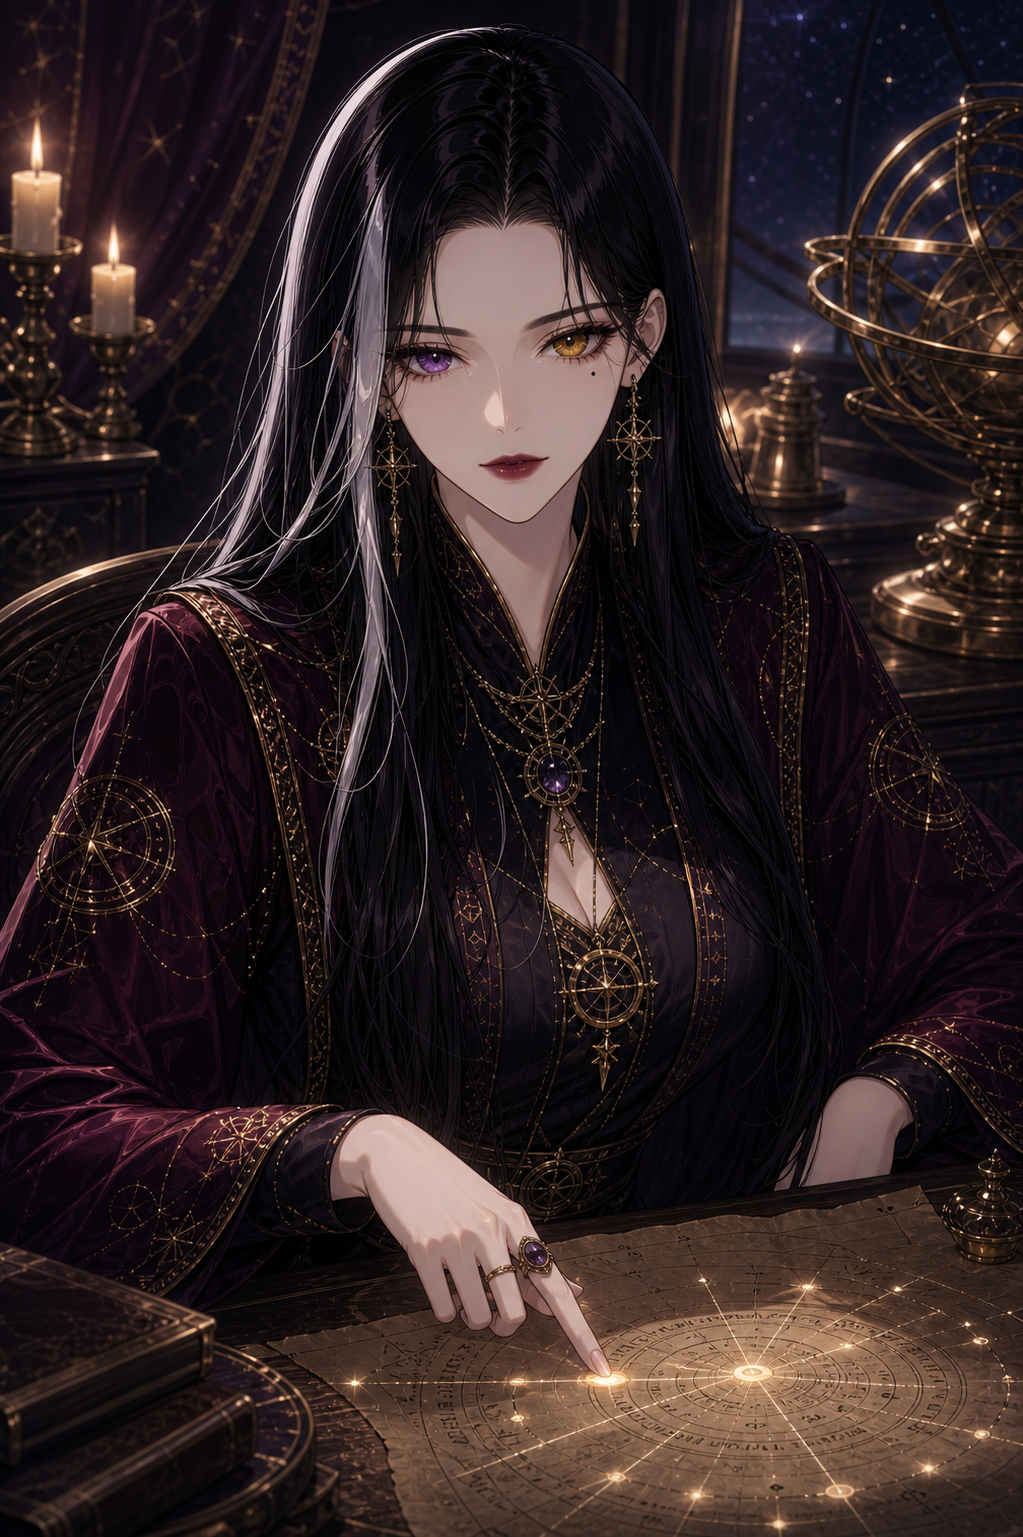
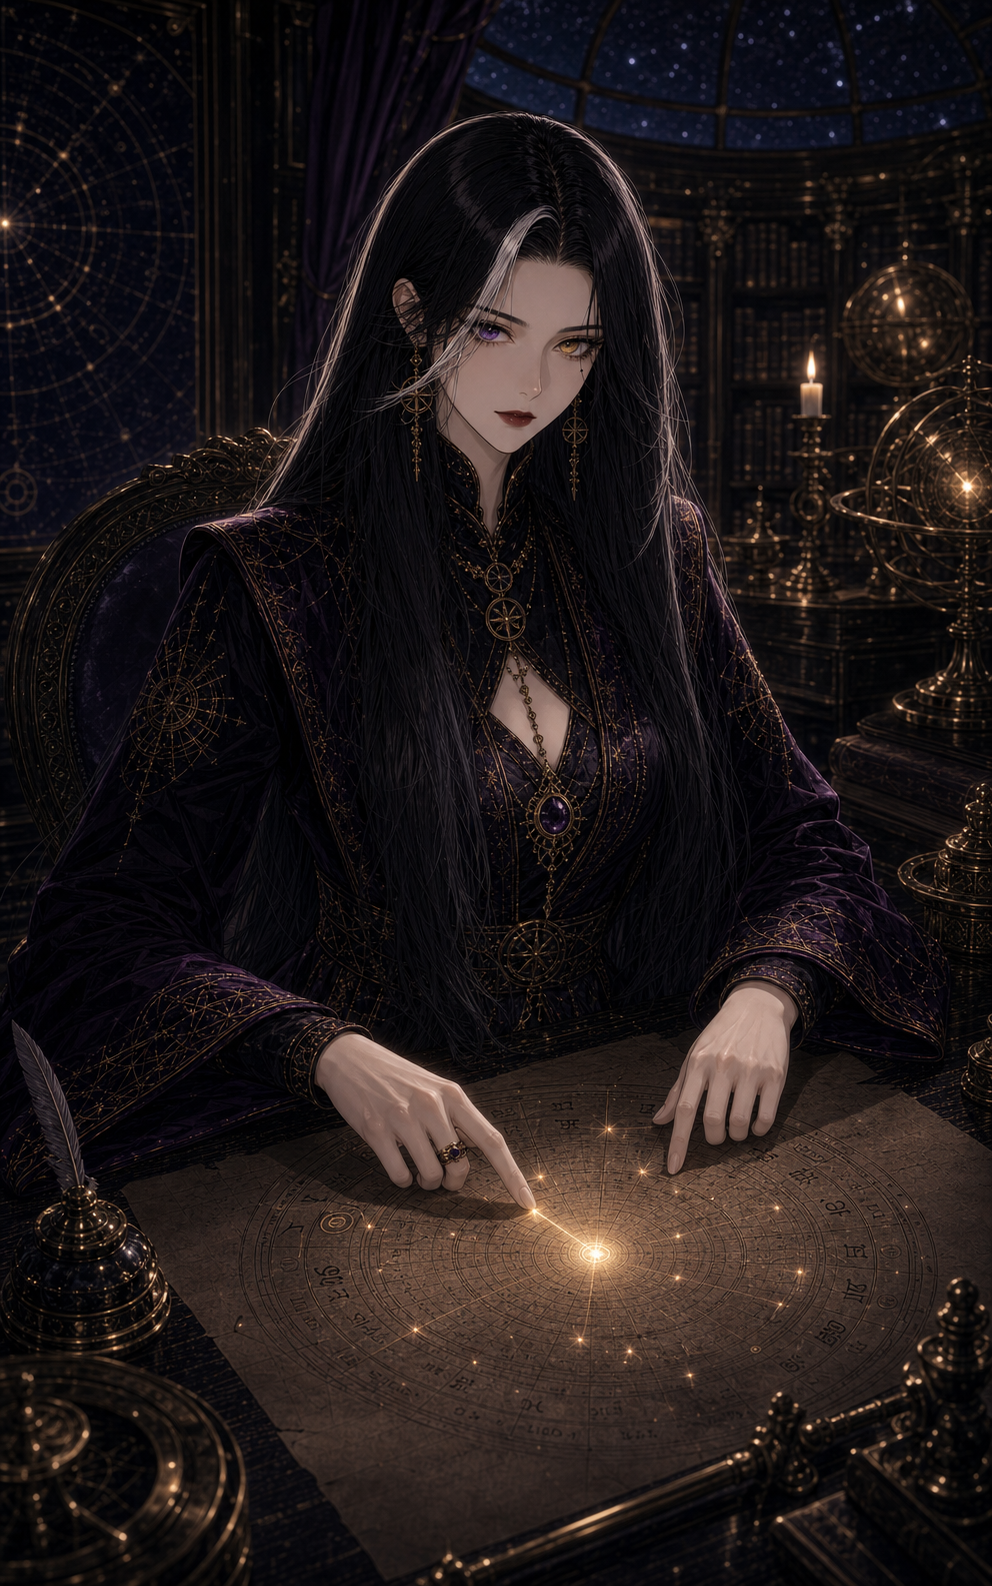
Lock Astraea core and add private observatory candidates

diff --git a/index.html b/index.html
@@ -115,12 +115,13 @@
 <body>
   <header>
     <h1>Astraea V2 Mobile Gallery</h1>
-    <div class="sub">Updated: 2026-05-21. Accepted art first; review and correction candidates are clearly labeled.</div>
+    <div class="sub">Updated: 2026-05-21. Core v1.2 is locked; review and product-background candidates are clearly labeled.</div>
     <nav>
       <a href="#canon">Canon</a>
       <a href="#core-v11">Core v1.1</a>
       <a href="#core-v12">Core v1.2</a>
       <a href="#core-correction">Core Correction</a>
+      <a href="#private-observatory">Private Observatory</a>
       <a href="#xingchenmao">Xingchenmao</a>
       <a href="#armillary">Armillary</a>
       <a href="#opening">Opening</a>
@@ -133,7 +134,7 @@
       <h2>Canon Masters</h2>
       <p class="note">The current six master references.</p>
       <div class="grid">
-        <figure><img src="images/canon/01-astraea-core.png" alt="Astraea Core"><figcaption><span class="status">Canon</span>01 Astraea Core</figcaption></figure>
+        <figure><img src="images/canon/01-astraea-core.png" alt="Astraea Core"><figcaption><span class="status">Locked Canon</span>01 Astraea Core v1.2</figcaption></figure>
         <figure><img src="images/canon/02-hidden-door.png" alt="Hidden Door"><figcaption><span class="status">Canon</span>02 Hidden Door</figcaption></figure>
         <figure><img src="images/canon/03-living-observatory.png" alt="Living Observatory"><figcaption><span class="status">Canon</span>03 Living Observatory</figcaption></figure>
         <figure><img src="images/canon/04-astrology-desk.png" alt="Astrology Desk"><figcaption><span class="status">Canon</span>04 Astrology Desk</figcaption></figure>
@@ -167,10 +168,20 @@
 
     <section id="core-correction">
       <h2>Astraea Core v1.2 Correction</h2>
-      <p class="note">Minimal hair correction on 1B only. This is not a new character generation pass. The corrected version is a canon candidate pending final QA, not locked canon yet.</p>
+      <p class="note">Minimal hair correction on 1B only. This is not a new character generation pass. The corrected version has been accepted as locked canon.</p>
       <div class="grid">
         <figure><img src="images/core-v1-2-correction/1b-original.png" alt="Astraea Core v1.2 1B Original"><figcaption><span class="status">Edit Base</span>1B Original - best B/D convergence, hair fails</figcaption></figure>
-        <figure><img src="images/core-v1-2-correction/1b-hair-corrected-local-v3.png" alt="Astraea Core v1.2 1B Hair Corrected"><figcaption><span class="status">Canon Candidate</span>1B Hair-Corrected Local v3 - pending final QA</figcaption></figure>
+        <figure><img src="images/core-v1-2-correction/1b-hair-corrected-local-v3.png" alt="Astraea Core v1.2 1B Hair Corrected"><figcaption><span class="status">Locked Canon</span>1B Hair-Corrected Local v3</figcaption></figure>
+      </div>
+    </section>
+
+    <section id="private-observatory">
+      <h2>Private Reading Observatory V1</h2>
+      <p class="note">Product-ready private observatory candidates. C is the current recommended direction for birth input, report loading, report page background, success page, and section transitions.</p>
+      <div class="grid">
+        <figure><img src="images/private-observatory-v1/01-candidate-a-room-balanced.png" alt="Private Reading Observatory Candidate A"><figcaption><span class="status">Review</span>A - strong mood, slightly more decorative</figcaption></figure>
+        <figure><img src="images/private-observatory-v1/02-candidate-b-user-seat.png" alt="Private Reading Observatory Candidate B"><figcaption><span class="status">Review</span>B - credible user-seat view, busier left side</figcaption></figure>
+        <figure><img src="images/private-observatory-v1/03-candidate-c-product-background-recommended.png" alt="Private Reading Observatory Candidate C"><figcaption><span class="status">Primary Candidate</span>C - best UI-safe product background</figcaption></figure>
       </div>
     </section>
 
